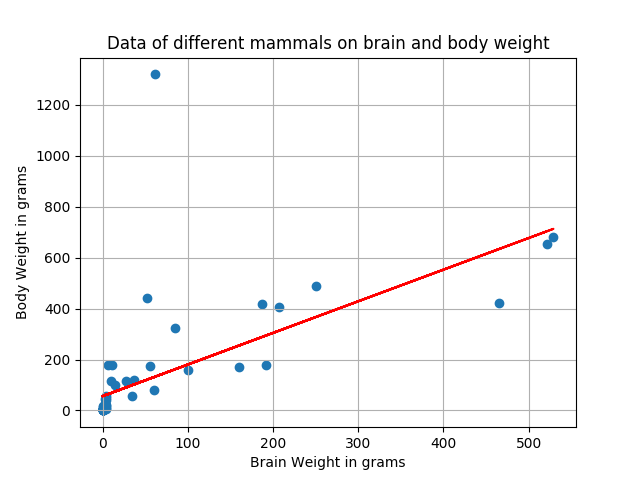
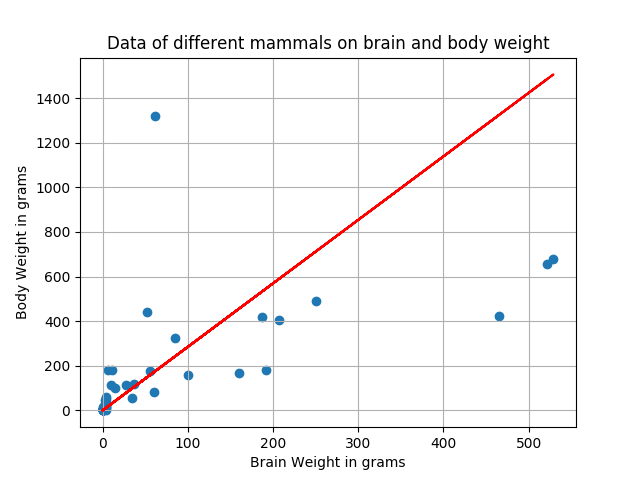
Added normal equation method as well. Lower cost is from gradient descent. Must fix that issue

diff --git a/linreg.py b/linreg.py
@@ -22,17 +22,17 @@ class LinRegBrainWeight:
         #optional print suppressor turn off when needed
         #np.set_printoptions(precision=4,suppress=True)
         print("Cost with theta set to 0",self.calculateCost(theta,0))
-        theta = self.optimizeTheta(theta,0.0001,0,200)
+        theta = self.optimizeTheta(theta,0.000001,0,200)
         print("Theta found after 200 Iterations and lamda as 0\n",theta)
         print("Cost with optimized theta and lamda set to 0",self.calculateCost(theta,0))
         #self.plotCurve(theta)
         theta2 = self.normalEquation(theta,0)
         print("Theta found with normal equation\n",theta2)
         print("Cost with theta found from normalequation",self.calculateCost(theta2,0))
-        self.plotCurve(theta2)
+        self.plotCurve(theta)
     def calculateCost(self,theta,lamda):
         #added lambda as well for the regularization
-        print("cost")
+        #print("cost")
         h = self.X * theta;
         res = h - self.Y;
         J = np.sum(np.power(res,2))/ (2 * len(self.X))
@@ -46,8 +46,11 @@ class LinRegBrainWeight:
         hm = h - self.Y
         grad = Xt * hm
         grad *= (alpha /len(self.X))
+        prevCost = self.calculateCost(theta,lamda)
         for i in range(1,numOfIter):
             theta = theta - grad
+            if(self.calculateCost(theta,lamda) > prevCost):
+                break
         return theta    
     def normalEquation(self,theta,lamda):
         print("Normal method")
